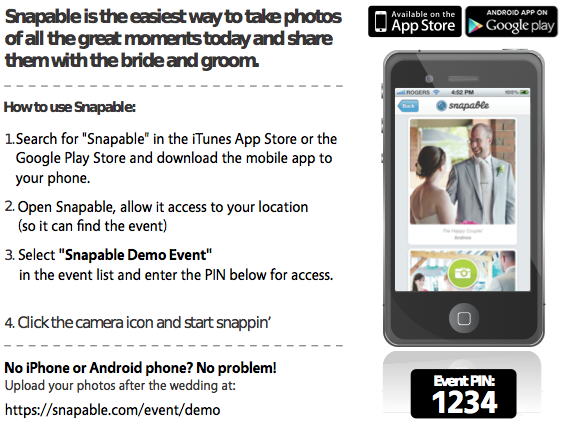
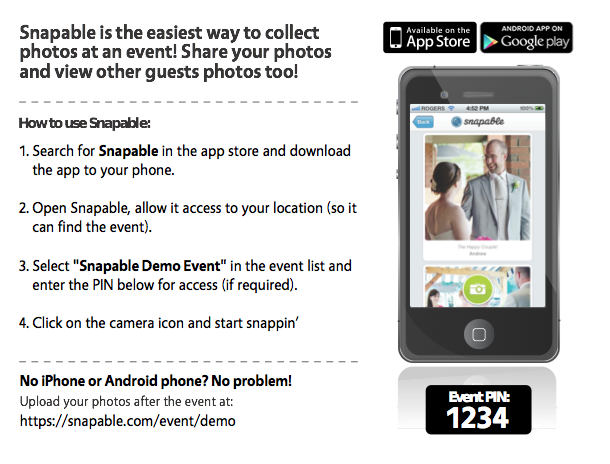
Small tweaks to the table card screenshots and size

diff --git a/public_html/assets/css/event.css b/public_html/assets/css/event.css
@@ -1207,8 +1207,7 @@ a#do-send-to-guests:hover {
 #tablecards img {
 	float: right;
 	margin-left: 25px;
-	width: 300px;
-	height: 227px;
+	height: 275px;
 	border: 1px solid #ccc;
 	border-radius: 10px;
 }

diff --git a/application/controllers/pdf.php b/application/controllers/pdf.php
@@ -7,6 +7,15 @@ class Pdf extends CI_Controller {
         show_404();
     }
 
+    public function demo()
+    {
+        $pdf = new SnapPdf();
+        $pdf->title('Snapable Demo Event');
+        $pdf->url('demo');
+        $pdf->pin('1234');
+        $pdf->Output('demo.pdf', 'D');
+    }
+
     public function download($url=null) 
     {
         $session_owner = SnapAuth::is_logged_in();
